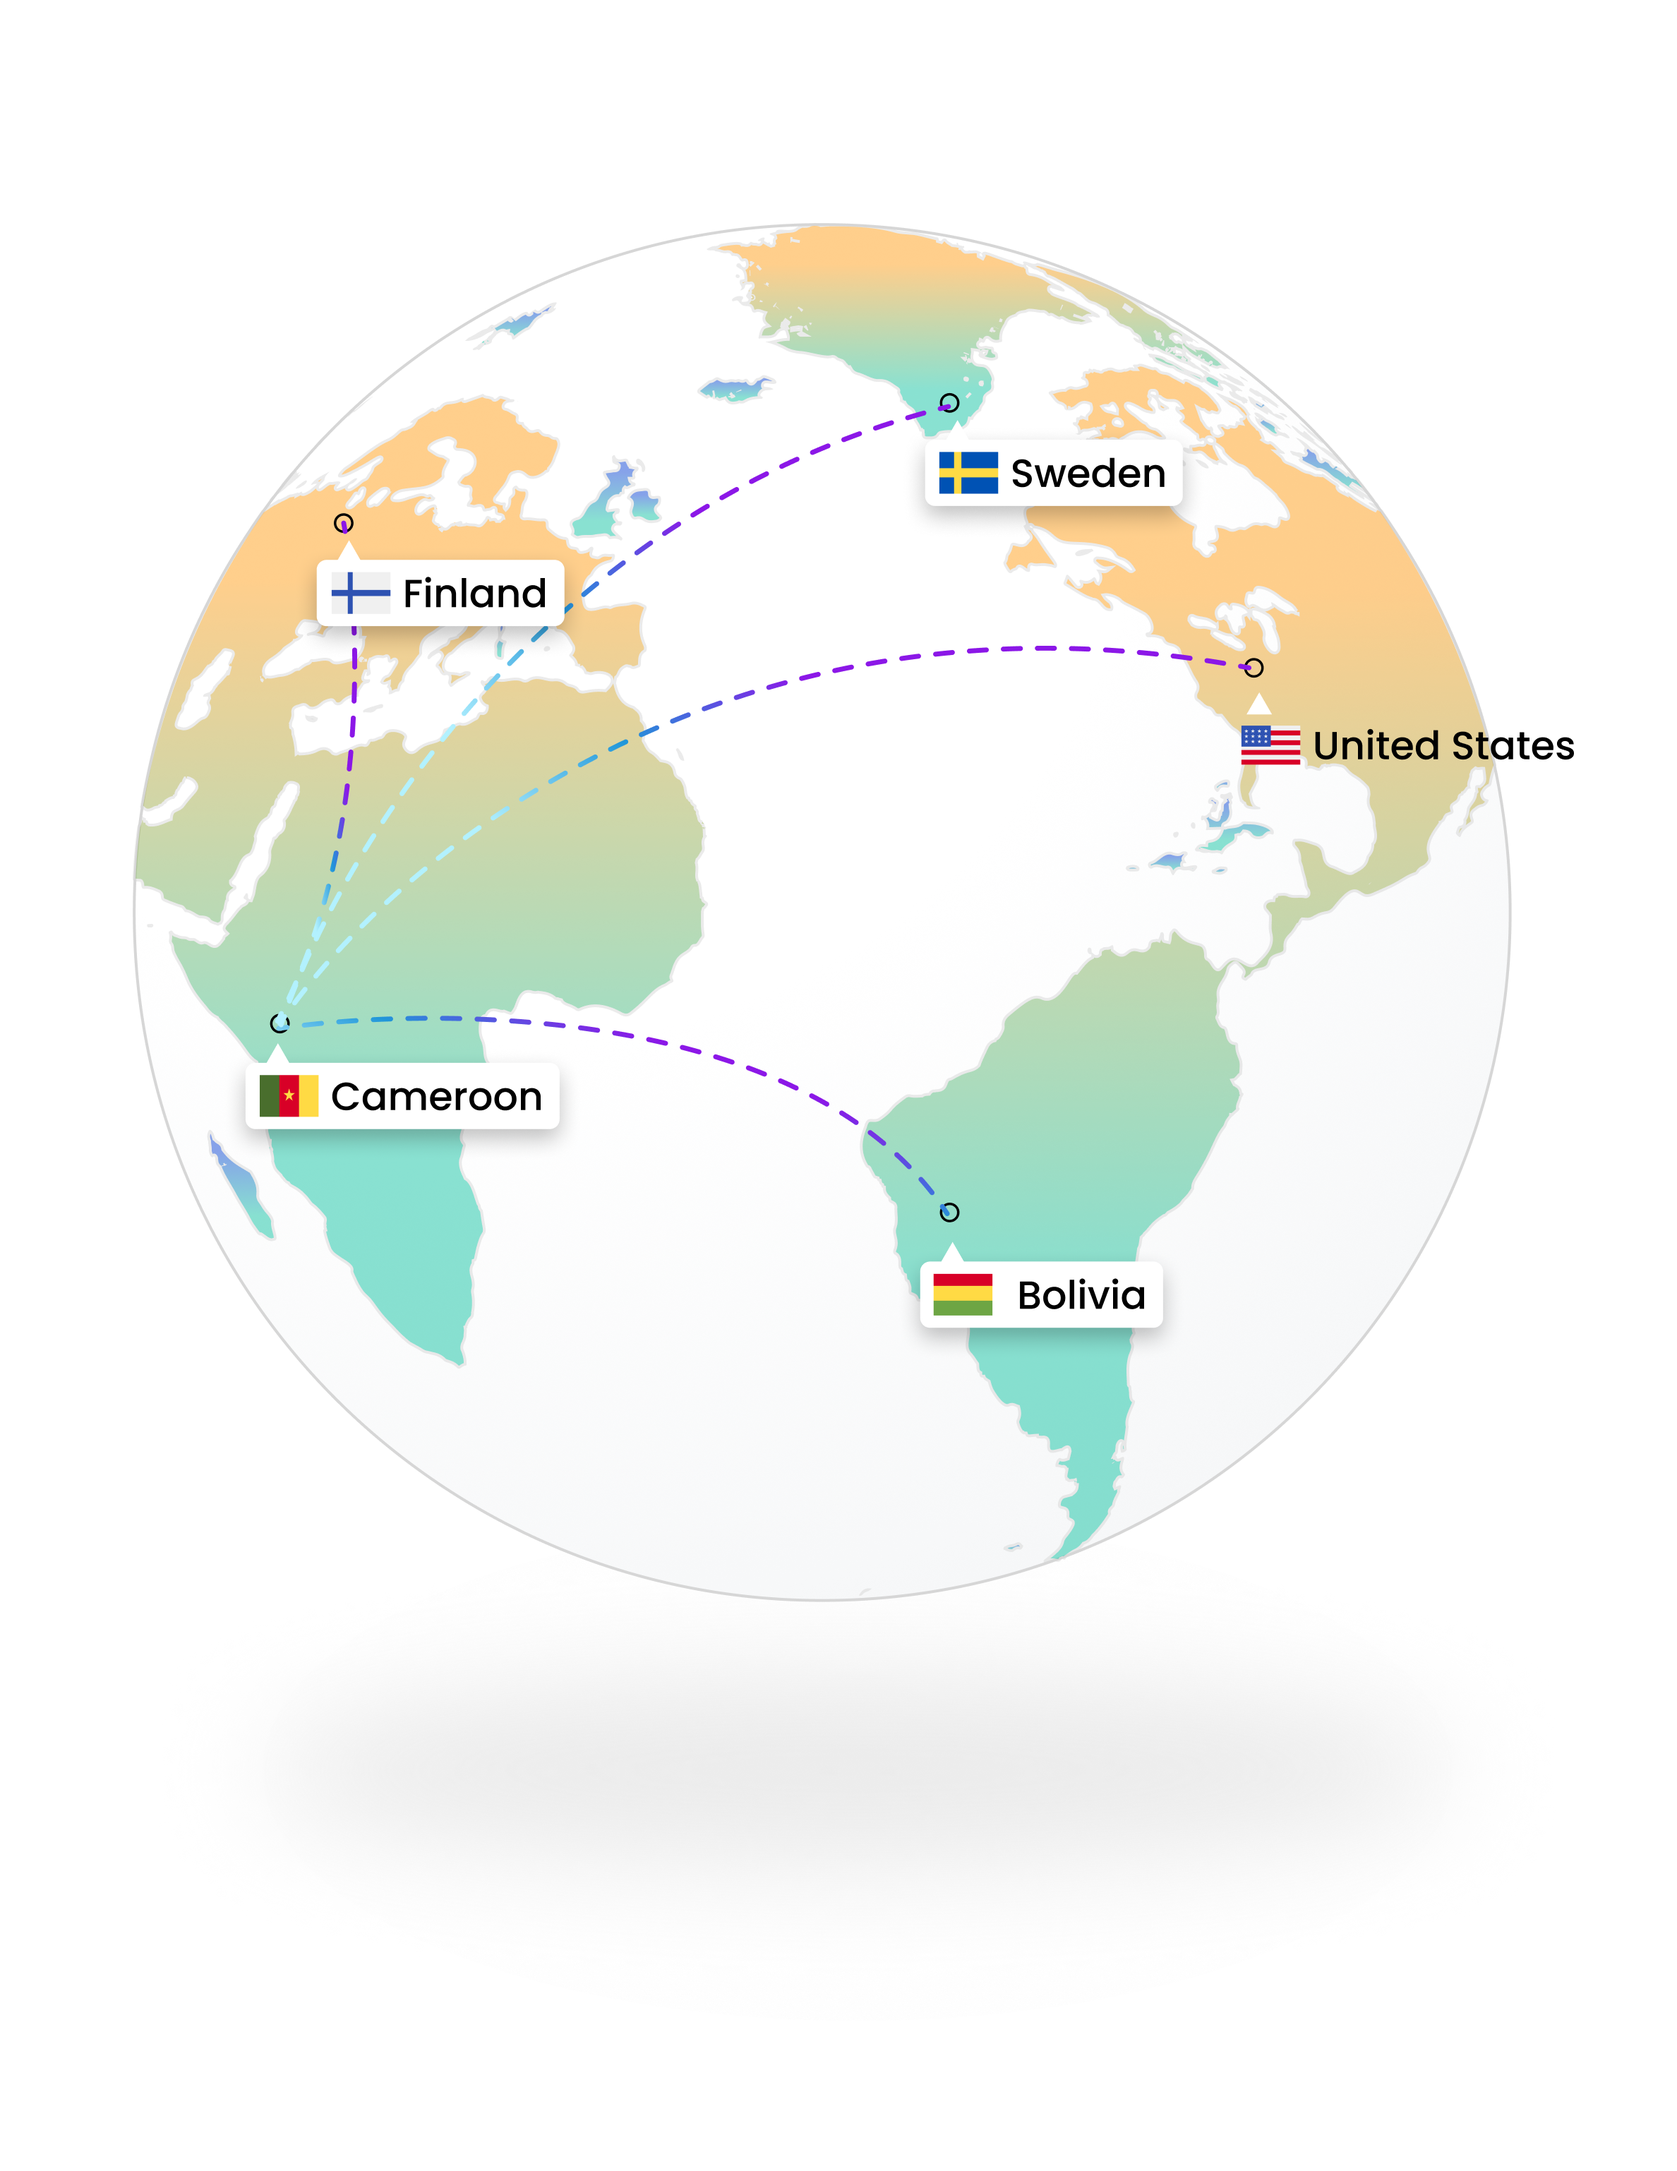
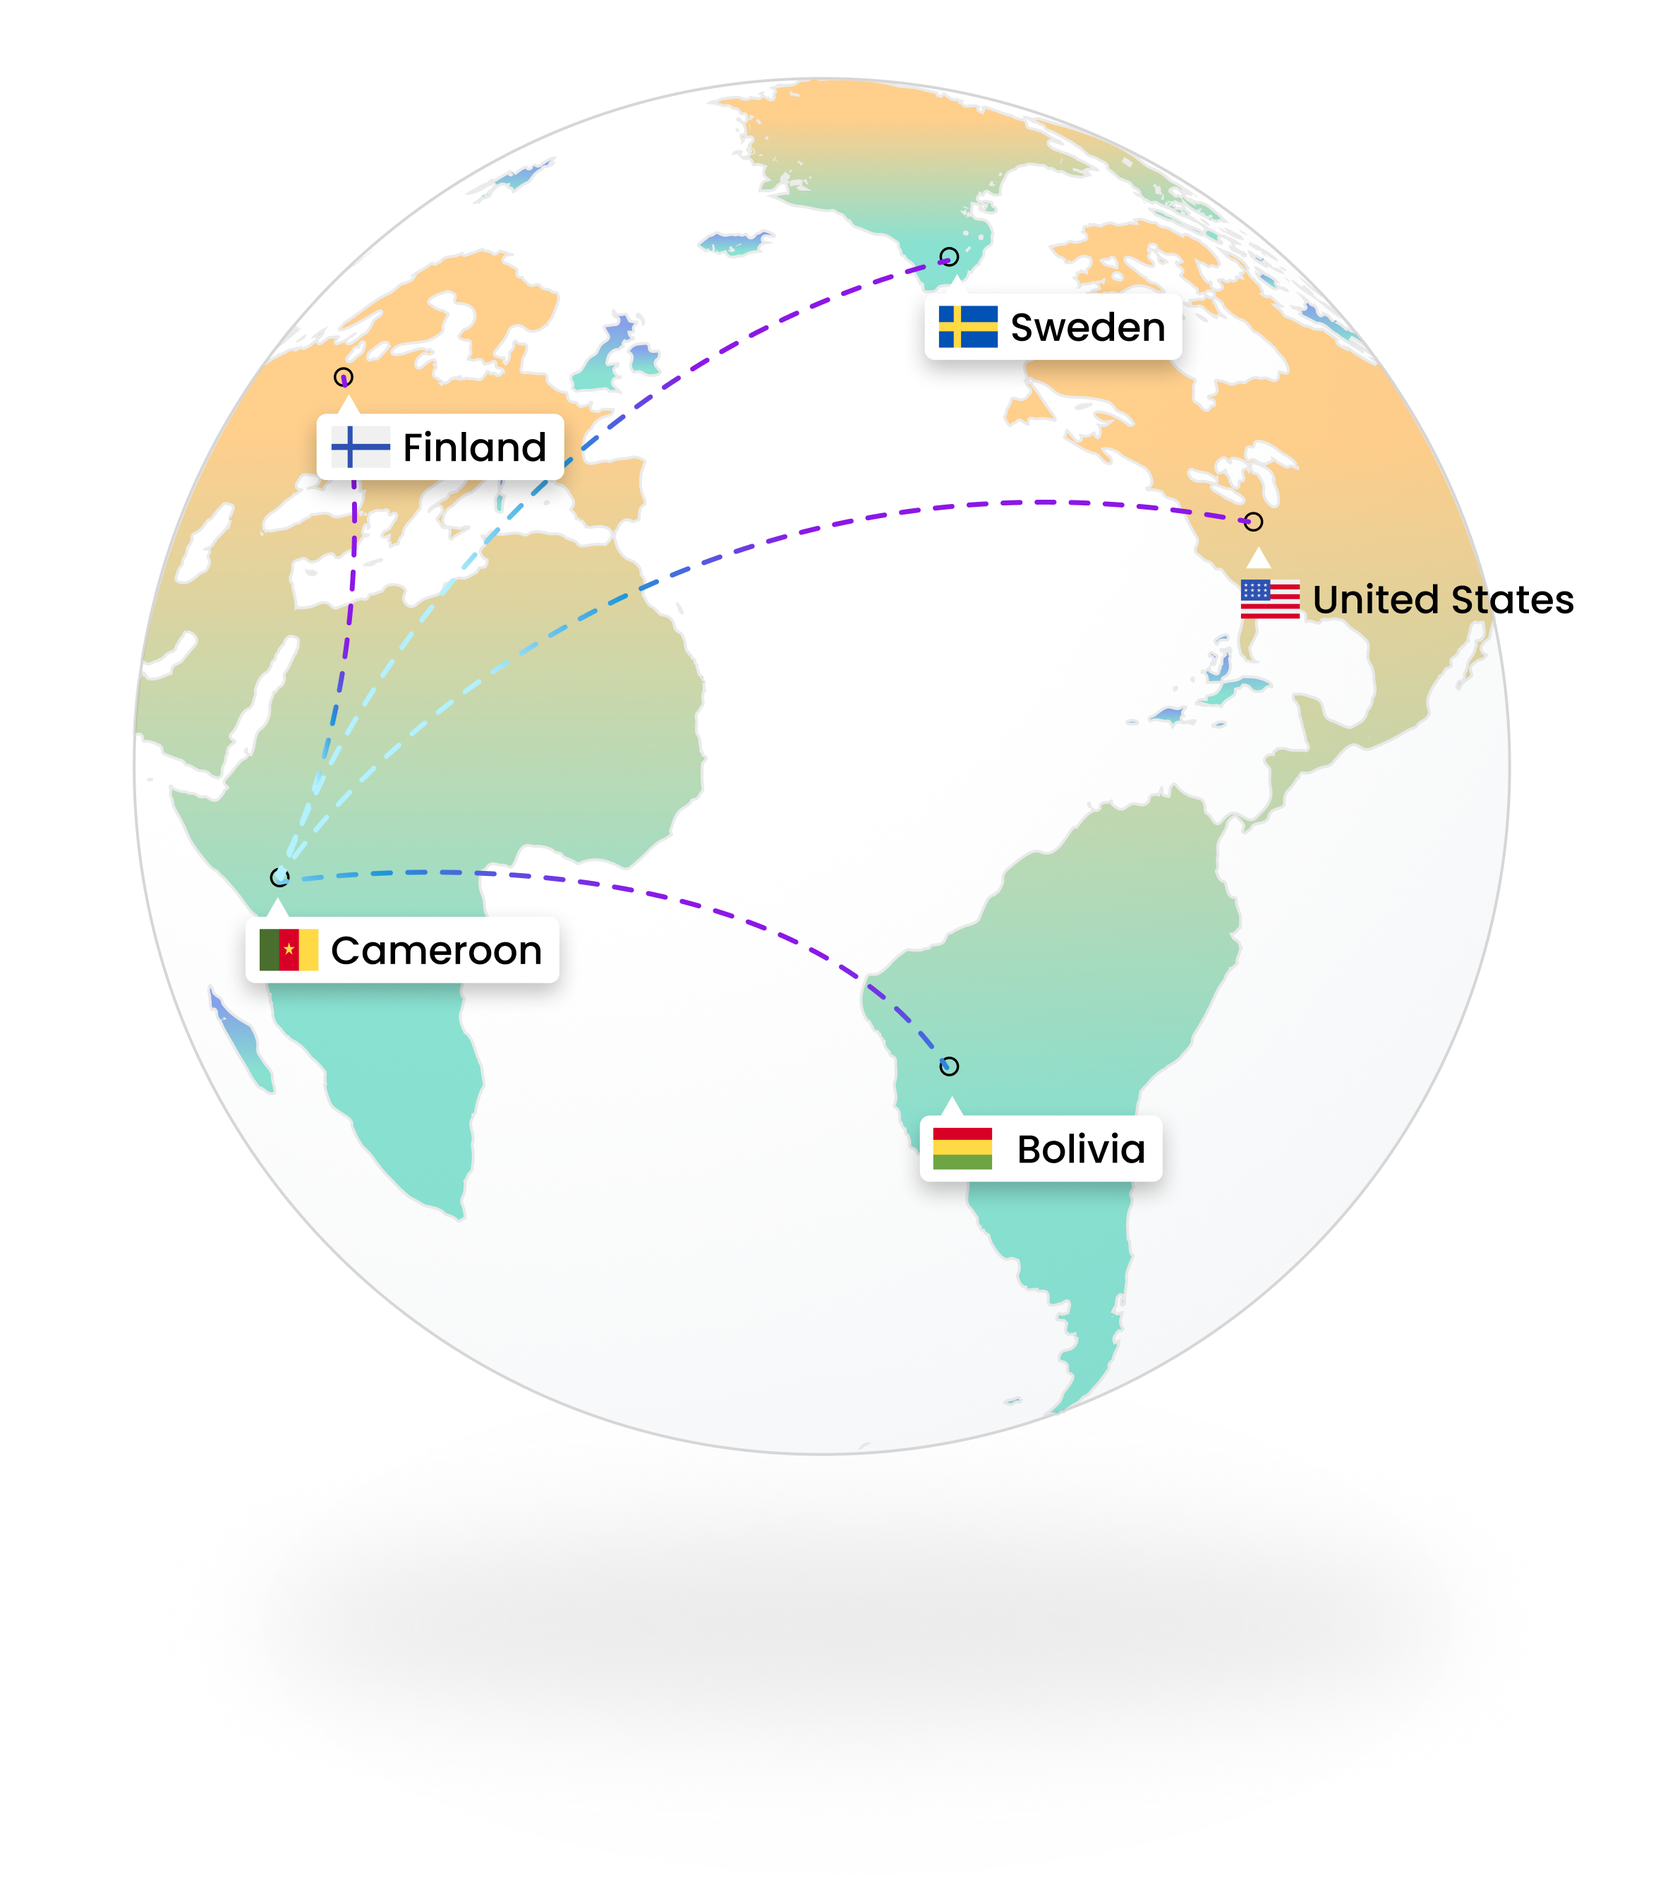
cameroon business section ui fixes

diff --git a/src/views/updatedBridgeHome.vue b/src/views/updatedBridgeHome.vue
@@ -495,11 +495,11 @@
 
           </div>
           <div class="col-5">
-            <v-lazy-image src="/assets/home/globe2.png"  alt=""/> 
+            <v-lazy-image src="/assets/home/globe.png"  alt=""/> 
           </div>
           
           <div class="col-5 pl-5">
-  <div class="row">
+  <div class="row pt-3">
     <div class="col-12 d-flex align-items-center pl-0">
       <v-lazy-image src="/assets/home/new_logo.svg" alt="" class="logo-img"/>
       <h3 class="mb-0">
